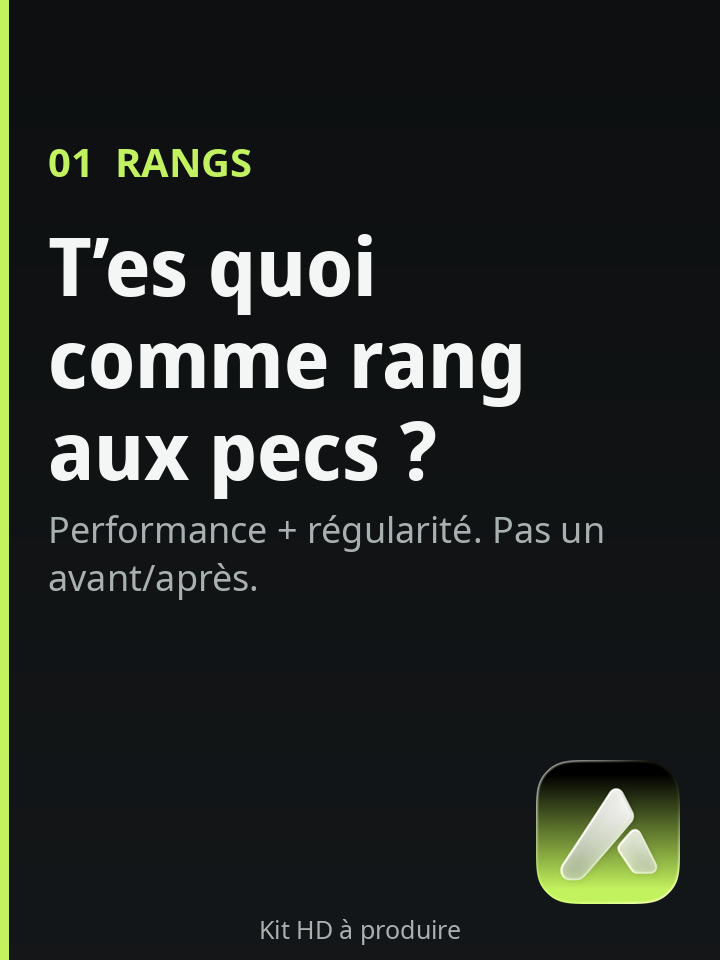
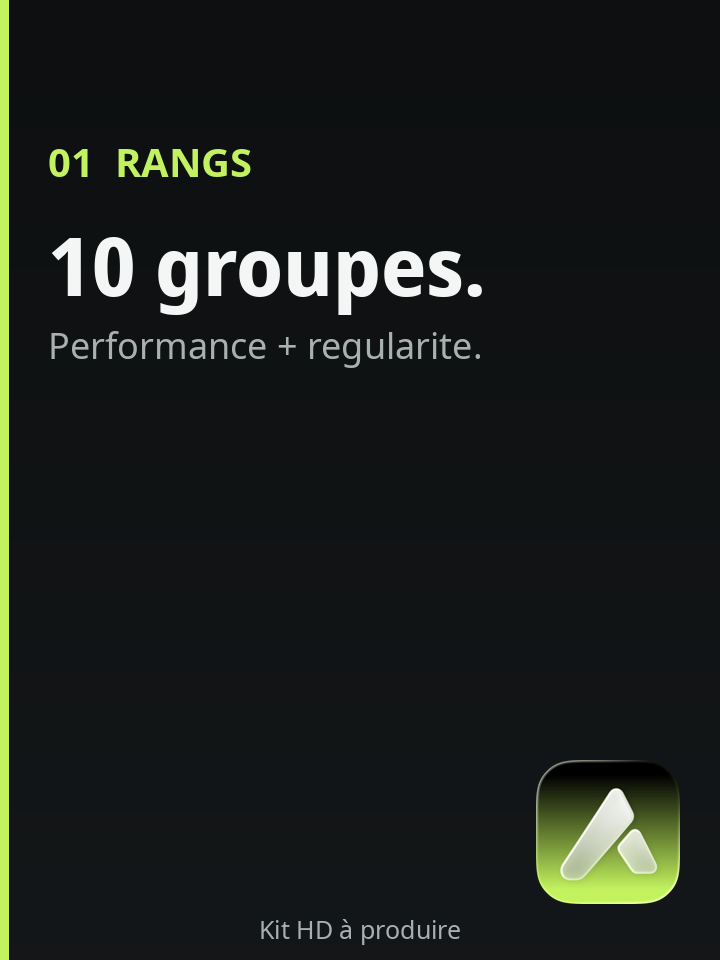
Polish Aven kit placeholders after visual pass.
Shorten Format card artwork so overlay titles stay readable, and replace
the missing arrow glyph on the Bronze-Elite slide.

diff --git a/scripts/generate-aven-placeholders.py b/scripts/generate-aven-placeholders.py
@@ -224,13 +224,13 @@ def main() -> None:
     (ROOT / "assets").mkdir(exist_ok=True)
     tile.save(ROOT / "assets" / "icon-tile.png", "PNG", optimize=True)
 
-    poster(ROOT / "format" / "rangs-pecs.png", 720, 960, "01  rangs", "T’es quoi comme rang aux pecs ?", "Performance + régularité. Pas un avant/après.")
-    poster(ROOT / "format" / "live-activity.png", 720, 960, "02  live activity", "Le repos vit sur l’écran verrouillé", "Dynamic Island · charge · reps · timer.")
-    poster(ROOT / "format" / "carte-seance.png", 720, 960, "03  carte 9:16", "Poste ton bilan de séance", "1080×1920, rang global, exercices.")
-    poster(ROOT / "format" / "seance-du-jour.png", 720, 960, "04  programmes", "Ta séance du jour est déjà prête", "Fondations · PPL · Haut/Bas.")
+    poster(ROOT / "format" / "rangs-pecs.png", 720, 960, "01  rangs", "10 groupes.", "Performance + regularite.")
+    poster(ROOT / "format" / "live-activity.png", 720, 960, "02  live activity", "Repos.", "Dynamic Island.")
+    poster(ROOT / "format" / "carte-seance.png", 720, 960, "03  carte 9:16", "1080 x 1920.", "Rang global.")
+    poster(ROOT / "format" / "seance-du-jour.png", 720, 960, "04  programmes", "PPL.", "Fondations · Haut/Bas.")
 
     poster(ROOT / "demarrage" / "rangs-hook.png", 450, 800, "Hook", "T’es quoi comme rang aux pecs ?", "1 seconde, une question.")
-    poster(ROOT / "demarrage" / "rangs-paliers.png", 450, 800, "Preuve", "Bronze → Élite", "10 groupes musculaires.")
+    poster(ROOT / "demarrage" / "rangs-paliers.png", 450, 800, "Preuve", "Bronze - Elite", "10 groupes musculaires.")
     poster(ROOT / "demarrage" / "rangs-app.png", 450, 800, "Payoff", "Chaque série compte.", "Kit HD à coller ici.")
 
     poster(ROOT / "demarrage" / "live-hook.png", 450, 800, "Hook", "Le repos sans déverrouiller", "Zéro friction entre deux séries.")
